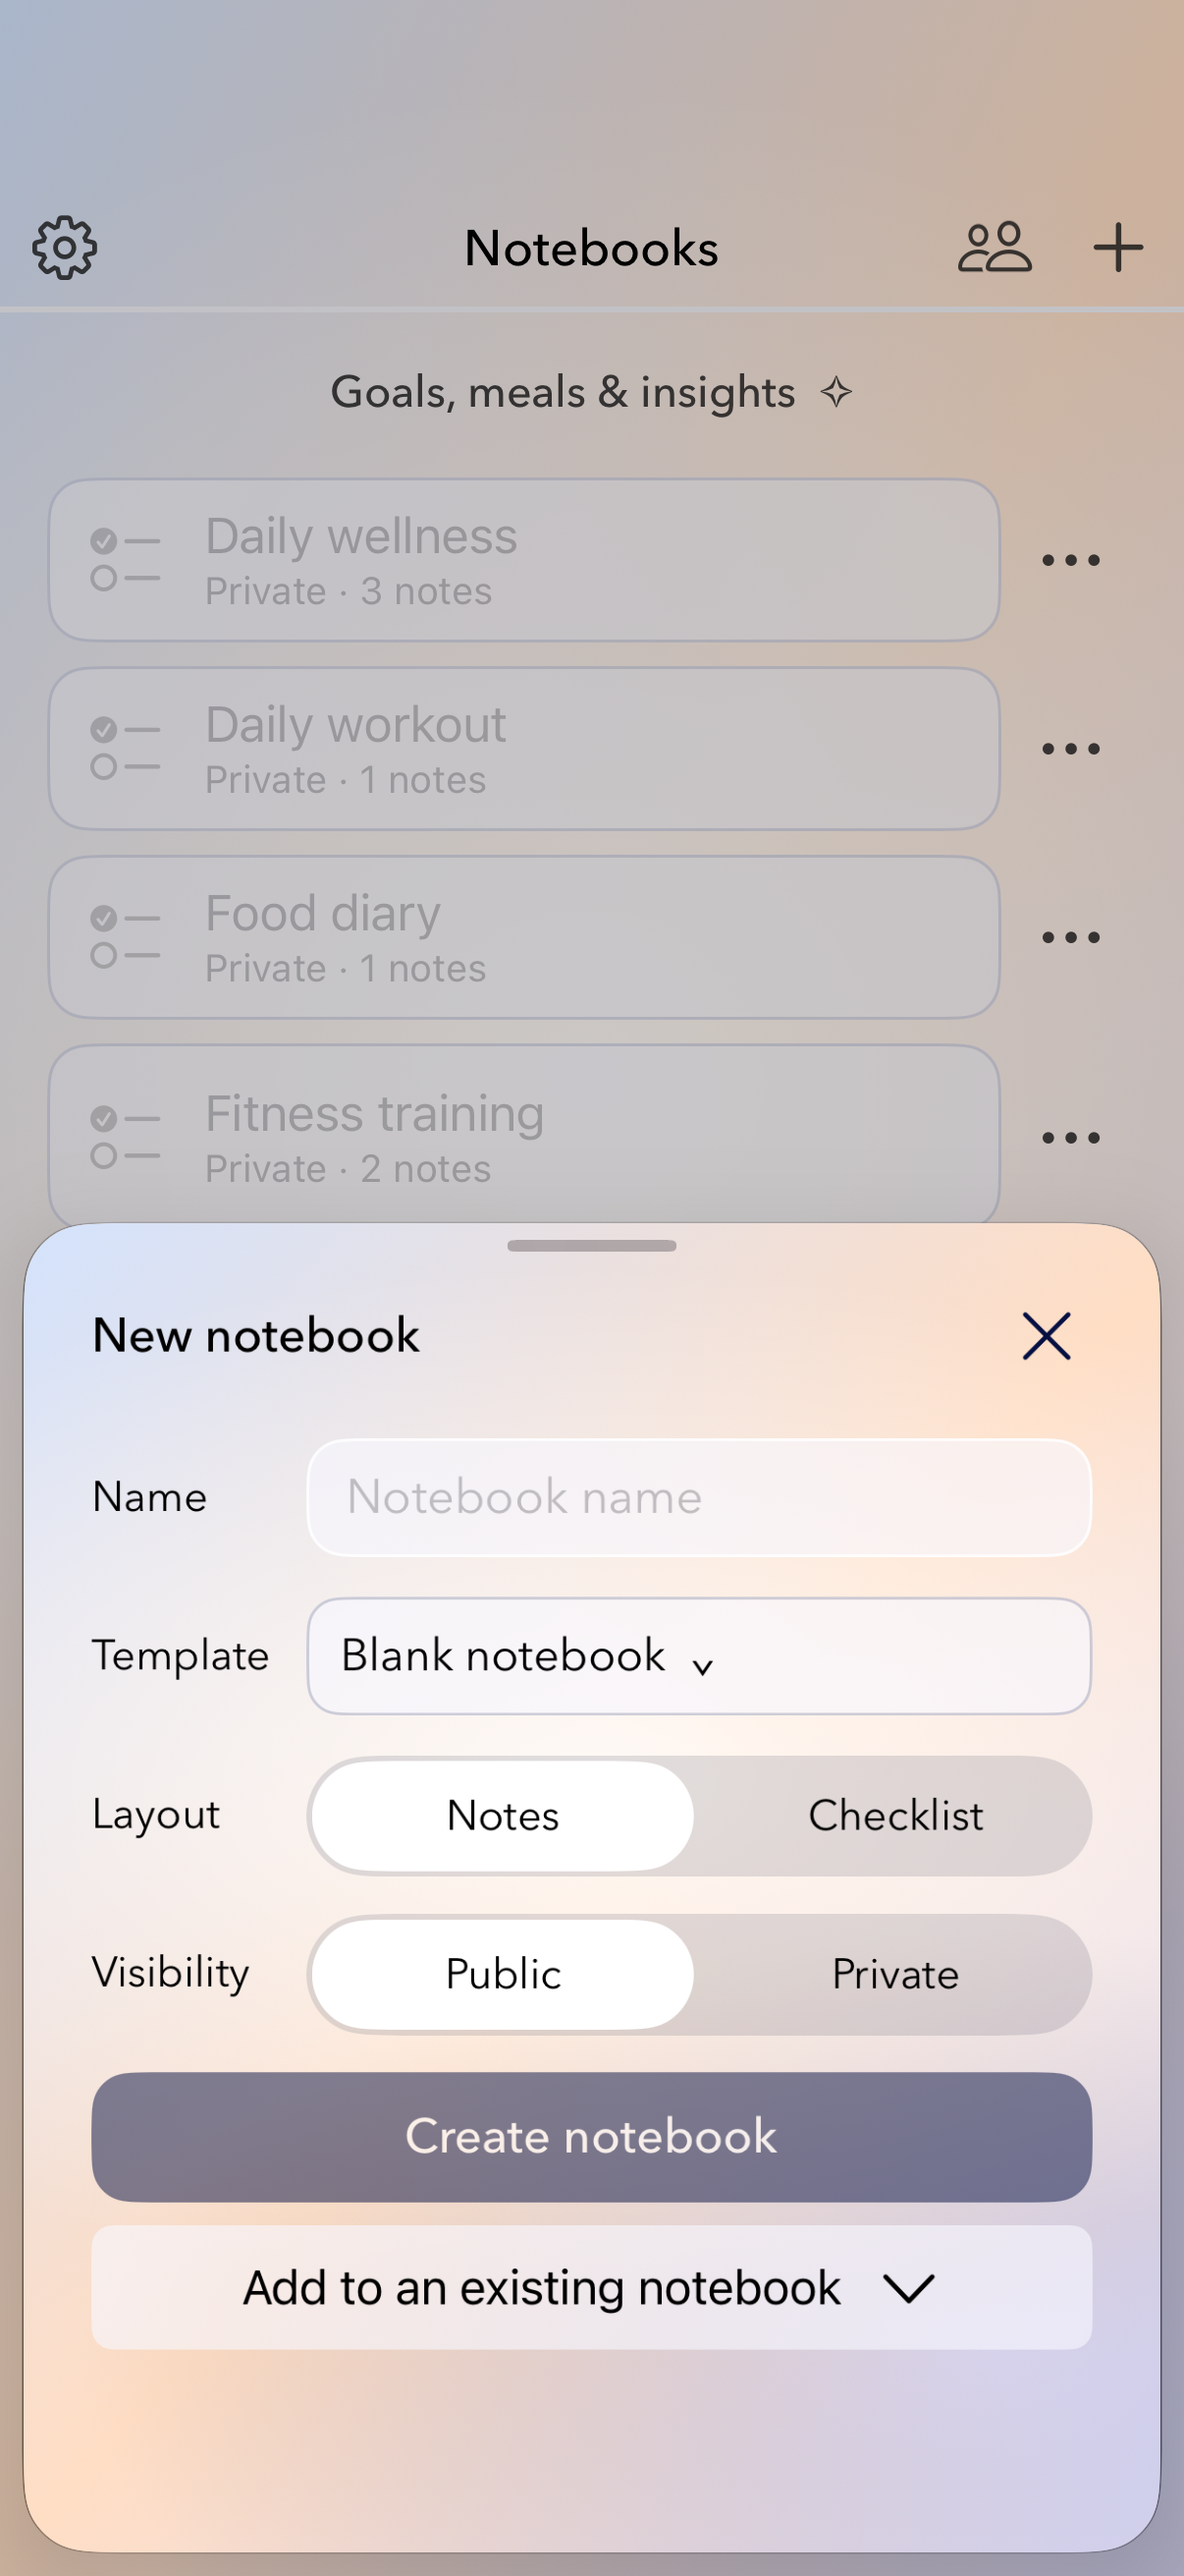
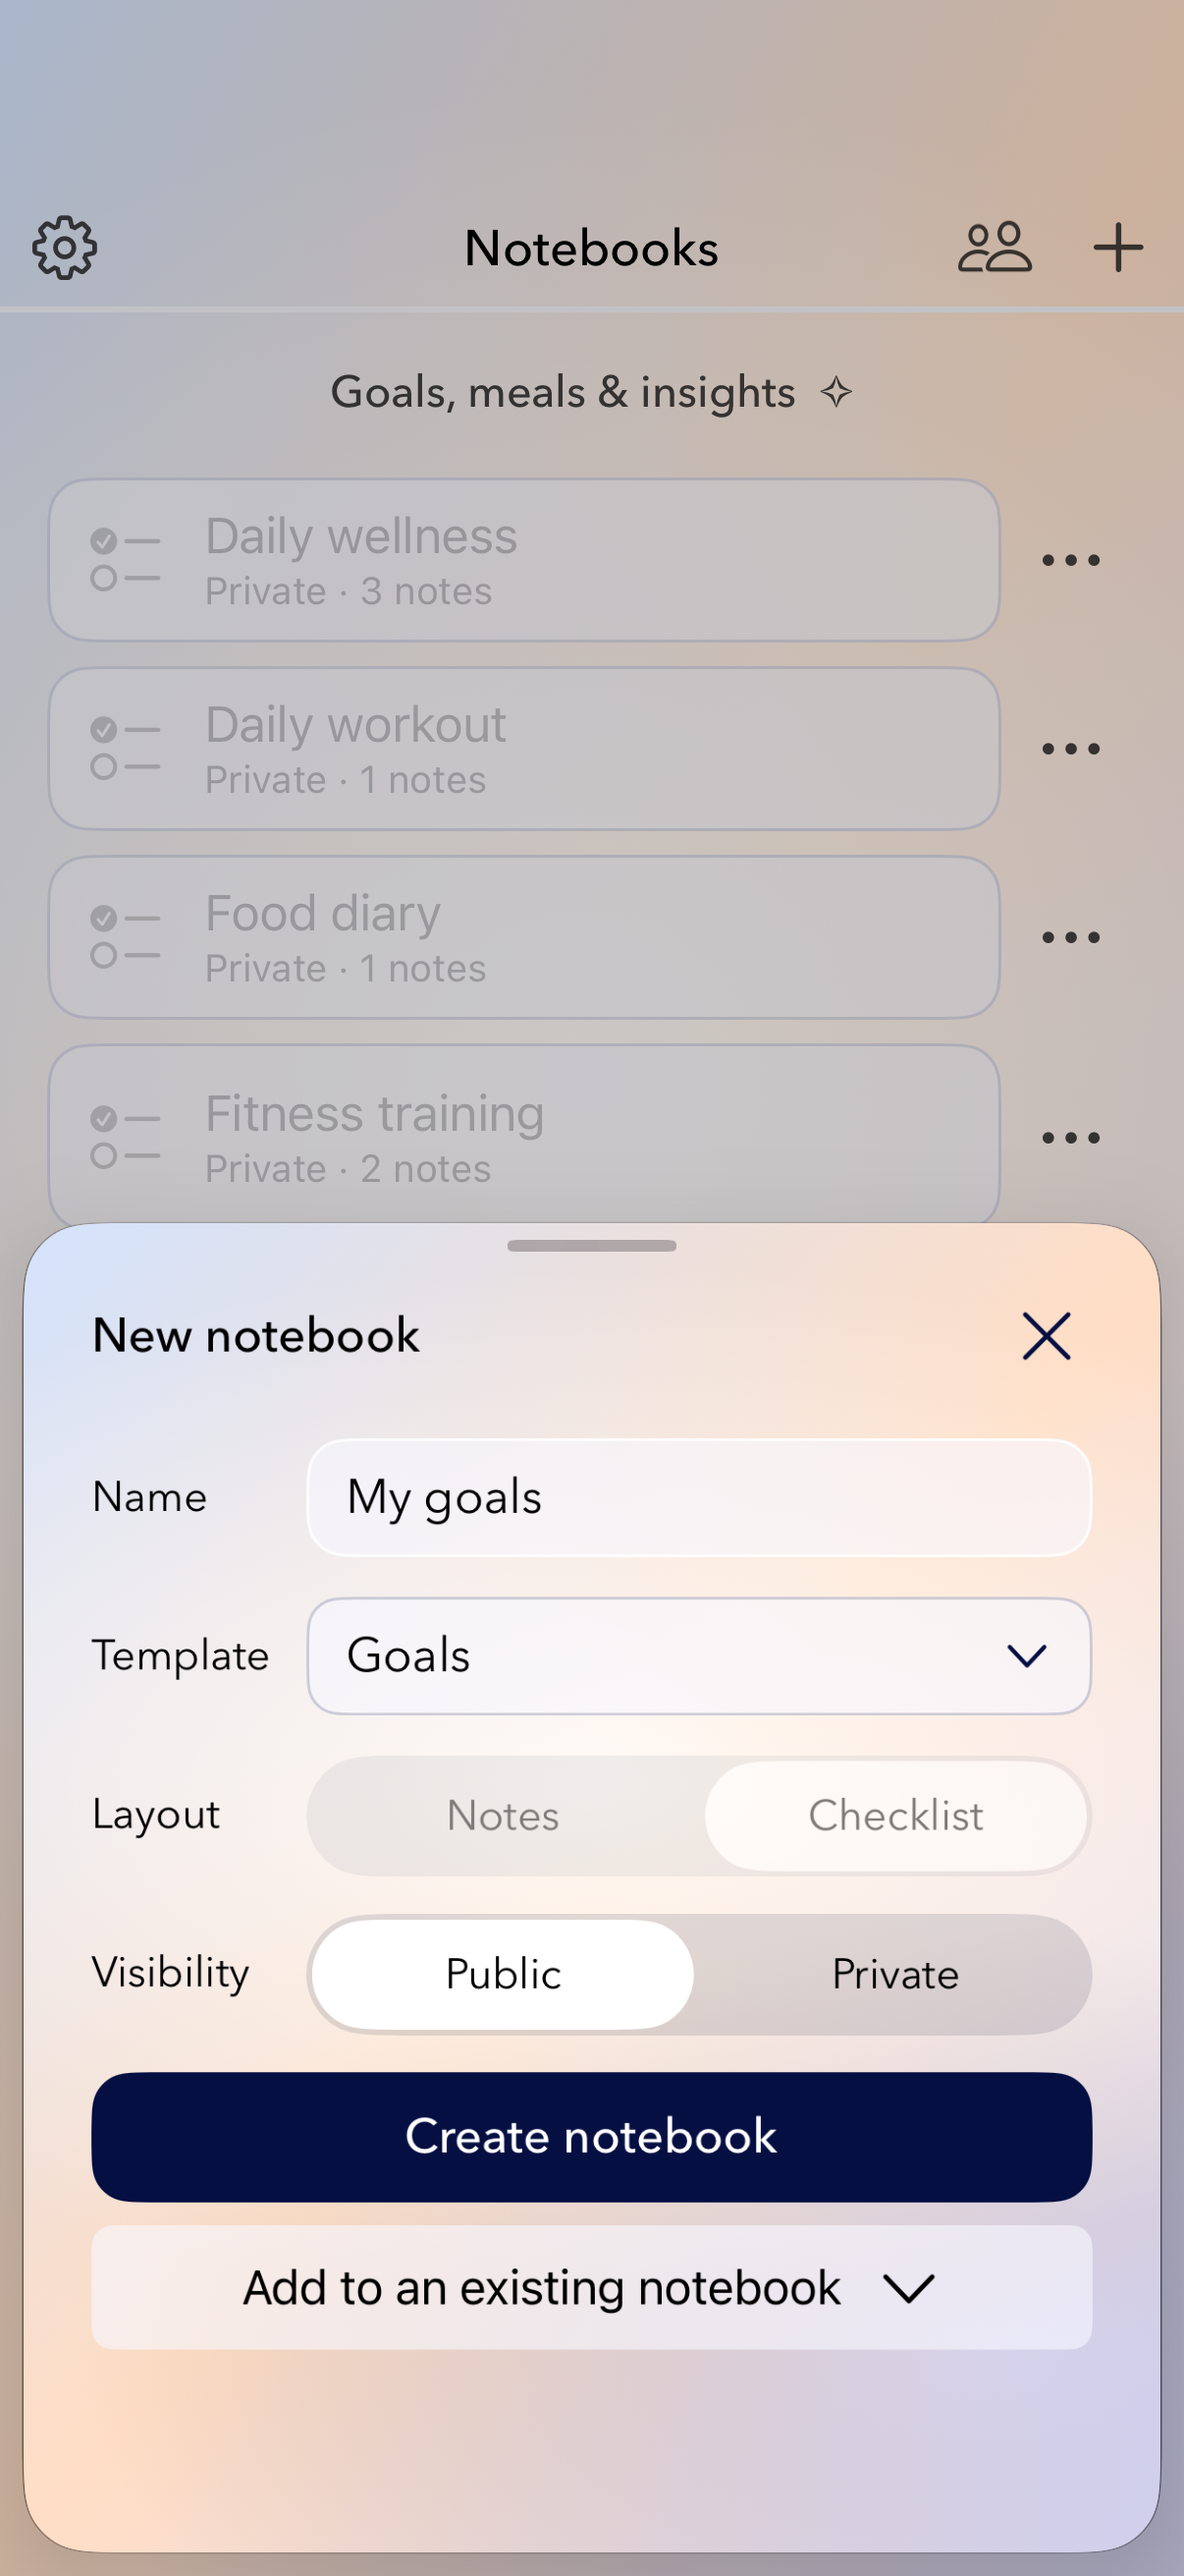
Match template dropdown spacing and selection styling to reference

diff --git a/Notes/Storyboards/UtilityManager/Gradient Layer.swift b/Notes/Storyboards/UtilityManager/Gradient Layer.swift
@@ -456,7 +456,7 @@ enum ApplazAuthLayout {
     }
 }
 
-final class NewNotebookViewController: UIViewController, UIPopoverPresentationControllerDelegate {
+final class NewNotebookViewController: UIViewController {
     var onCreate: ((String, Bool) -> Void)?
     var onFinish: (() -> Void)?
     var existingNotebooks: [Note] = []
@@ -464,6 +464,7 @@ final class NewNotebookViewController: UIViewController, UIPopoverPresentationCo
     var onSelectPrivateNotebook: ((String) -> Void)?
     private var selectedTemplate = WellnessTemplate.blank
     private let templateButton = UIButton(type: .system)
+    private var templateMenuOverlay: UIControl?
     private let templateDescription = UILabel()
     private let checklistControl = UISegmentedControl(items: ["Notes", "Checklist"])
     let nameField = UITextField()
@@ -548,13 +549,24 @@ final class NewNotebookViewController: UIViewController, UIPopoverPresentationCo
         let actions = UIStackView(arrangedSubviews: [createButton])
         templateButton.accessibilityIdentifier = "NotebookTemplate"
         templateButton.contentHorizontalAlignment = .leading
-        templateButton.titleLabel?.font = ApplazAppearance.font(16)
+        templateButton.titleLabel?.font = ApplazAppearance.font(17)
         templateButton.tintColor = ApplazAppearance.ink
         templateButton.backgroundColor = ApplazAppearance.surface
         templateButton.layer.cornerRadius = 12
         templateButton.layer.borderWidth = 1
         templateButton.layer.borderColor = ApplazAppearance.accent.withAlphaComponent(0.18).cgColor
-        templateButton.contentEdgeInsets = UIEdgeInsets(top: 0, left: 12, bottom: 0, right: 12)
+        templateButton.contentEdgeInsets = UIEdgeInsets(top: 0, left: 14, bottom: 0, right: 42)
+        let templateChevron = UIImageView(image: UIImage(systemName: "chevron.down", withConfiguration: UIImage.SymbolConfiguration(pointSize: 14, weight: .regular)))
+        templateChevron.tintColor = ApplazAppearance.accent
+        templateChevron.contentMode = .scaleAspectFit
+        templateChevron.translatesAutoresizingMaskIntoConstraints = false
+        templateButton.addSubview(templateChevron)
+        NSLayoutConstraint.activate([
+            templateChevron.trailingAnchor.constraint(equalTo: templateButton.trailingAnchor, constant: -14),
+            templateChevron.centerYAnchor.constraint(equalTo: templateButton.centerYAnchor),
+            templateChevron.widthAnchor.constraint(equalToConstant: 18),
+            templateChevron.heightAnchor.constraint(equalToConstant: 18)
+        ])
         templateButton.addTarget(self, action: #selector(showTemplateChoices), for: .touchUpInside)
         refreshTemplateMenu()
         checklistControl.selectedSegmentIndex = 0
@@ -640,55 +652,134 @@ final class NewNotebookViewController: UIViewController, UIPopoverPresentationCo
         }
     }
 
+    private func templateTitle(_ template: WellnessTemplate) -> String {
+        switch template {
+        case .blank: return "Blank notebook"
+        case .goals: return "Goals"
+        case .wellness: return "Routine checklist"
+        case .workout: return "Workout checklist"
+        case .food: return "Food diary"
+        case .training: return "Fitness training"
+        }
+    }
     private func refreshTemplateMenu() {
-        templateButton.setTitle(selectedTemplate.rawValue + "  ⌄", for: .normal)
+        templateButton.setTitle(templateTitle(selectedTemplate), for: .normal)
         templateButton.accessibilityHint = selectedTemplate.summary
     }
-    @objc private func showTemplateChoices() {
-        let choices = UIViewController()
-        choices.modalPresentationStyle = .popover
-        choices.view.backgroundColor = UIColor(red: 0.98, green: 0.97, blue: 1, alpha: 1)
-        let rows = UIStackView()
-        rows.axis = .vertical
-        rows.translatesAutoresizingMaskIntoConstraints = false
-        choices.view.addSubview(rows)
-        for template in WellnessTemplate.allCases {
-            let button = UIButton(type: .system)
-            var config = UIButton.Configuration.plain()
-            config.title = template.rawValue
-            config.baseForegroundColor = ApplazAppearance.ink
-            config.contentInsets = NSDirectionalEdgeInsets(top: 0, leading: 16, bottom: 0, trailing: 14)
-            if template == selectedTemplate {
-                config.image = UIImage(systemName: "checkmark")
-                config.imagePlacement = .trailing
-                config.imagePadding = 12
-                button.backgroundColor = UIColor(red: 0.88, green: 0.85, blue: 0.95, alpha: 1)
-            }
-            button.configuration = config
-            button.contentHorizontalAlignment = .leading
-            button.accessibilityLabel = template.rawValue
-            button.heightAnchor.constraint(equalToConstant: 42).isActive = true
-            button.addAction(UIAction { [weak self, weak choices] _ in
-                choices?.dismiss(animated: true)
-                self?.selectTemplate(template)
-            }, for: .touchUpInside)
-            rows.addArrangedSubview(button)
-        }
-        NSLayoutConstraint.activate([rows.topAnchor.constraint(equalTo: choices.view.topAnchor), rows.bottomAnchor.constraint(equalTo: choices.view.bottomAnchor), rows.leadingAnchor.constraint(equalTo: choices.view.leadingAnchor), rows.trailingAnchor.constraint(equalTo: choices.view.trailingAnchor)])
-        choices.preferredContentSize = CGSize(width: 280, height: CGFloat(WellnessTemplate.allCases.count) * 42)
-        if let popover = choices.popoverPresentationController {
-            popover.sourceView = templateButton
-            popover.sourceRect = templateButton.bounds
-            popover.permittedArrowDirections = [.up, .down]
-            popover.delegate = self
-        }
-        present(choices, animated: true)
+    @objc private func hideTemplateChoices() {
+        templateMenuOverlay?.removeFromSuperview()
+        templateMenuOverlay = nil
     }
-    func adaptivePresentationStyle(for controller: UIPresentationController) -> UIModalPresentationStyle { .none }
+    @objc private func showTemplateChoices() {
+        if templateMenuOverlay != nil { hideTemplateChoices(); return }
+        guard let window = view.window else { return }
+        if nameField.isFirstResponder {
+            nameField.resignFirstResponder()
+            DispatchQueue.main.asyncAfter(deadline: .now() + 0.35) { [weak self] in self?.showTemplateChoices() }
+            return
+        }
+        view.layoutIfNeeded()
+        let anchor = templateButton.convert(templateButton.bounds, to: window)
+        let width = min(300, max(260, anchor.width), window.bounds.width - 32)
+        let rowHeight: CGFloat = 48
+        let height = rowHeight * CGFloat(WellnessTemplate.allCases.count)
+        let above = anchor.minY - height - 10 >= window.safeAreaInsets.top + 12
+        let x = min(max(16, anchor.maxX - width), window.bounds.width - width - 16)
+        let y = above ? anchor.minY - height - 10 : min(anchor.maxY + 10, window.bounds.height - window.safeAreaInsets.bottom - height - 12)
+        let overlay = UIControl(frame: window.bounds)
+        overlay.autoresizingMask = [.flexibleWidth, .flexibleHeight]
+        overlay.accessibilityIdentifier = "NotebookTemplateMenu"
+        overlay.accessibilityViewIsModal = true
+        overlay.addTarget(self, action: #selector(hideTemplateChoices), for: .touchUpInside)
+        let surface = UIColor(red: 0.99, green: 0.98, blue: 1, alpha: 1)
+        let outline = UIColor(red: 0.62, green: 0.58, blue: 0.80, alpha: 0.48)
+        let arrowX = min(max(anchor.midX, x + 22), x + width - 22)
+        let baseY = above ? y + height : y
+        let pointer = UIBezierPath()
+        pointer.move(to: CGPoint(x: arrowX - 9, y: baseY))
+        pointer.addLine(to: CGPoint(x: arrowX, y: baseY + (above ? 9 : -9)))
+        pointer.addLine(to: CGPoint(x: arrowX + 9, y: baseY))
+        pointer.close()
+        let arrow = CAShapeLayer()
+        arrow.path = pointer.cgPath
+        arrow.fillColor = surface.cgColor
+        arrow.strokeColor = outline.cgColor
+        arrow.lineWidth = 1
+        overlay.layer.addSublayer(arrow)
+        let shadow = UIView(frame: CGRect(x: x, y: y, width: width, height: height))
+        shadow.layer.shadowColor = ApplazAppearance.accent.cgColor
+        shadow.layer.shadowOpacity = 0.12
+        shadow.layer.shadowRadius = 14
+        shadow.layer.shadowOffset = CGSize(width: 0, height: 7)
+        shadow.layer.shadowPath = UIBezierPath(roundedRect: shadow.bounds, cornerRadius: 14).cgPath
+        overlay.addSubview(shadow)
+        let card = UIView(frame: shadow.bounds)
+        card.backgroundColor = surface
+        card.layer.cornerRadius = 14
+        card.layer.borderColor = outline.cgColor
+        card.layer.borderWidth = 1
+        card.clipsToBounds = true
+        shadow.addSubview(card)
+        var selectedButton: UIButton?
+        for (index, template) in WellnessTemplate.allCases.enumerated() {
+            let selected = template == selectedTemplate
+            let button = UIButton(type: .custom)
+            button.frame = CGRect(x: 0, y: CGFloat(index) * rowHeight, width: width, height: rowHeight)
+            button.backgroundColor = selected ? UIColor(red: 0.89, green: 0.86, blue: 0.95, alpha: 1) : .clear
+            button.accessibilityIdentifier = "NotebookTemplateChoice." + template.id
+            button.accessibilityLabel = templateTitle(template)
+            button.accessibilityHint = template.summary
+            button.isAccessibilityElement = true
+            button.isSelected = selected
+            if selected { button.accessibilityTraits.insert(.selected); selectedButton = button }
+            let label = UILabel(frame: CGRect(x: 18, y: 0, width: width - 66, height: rowHeight))
+            label.text = templateTitle(template)
+            label.textColor = ApplazAppearance.ink
+            label.font = ApplazAppearance.font(17, weight: selected ? .medium : .regular)
+            label.lineBreakMode = .byTruncatingTail
+            label.isAccessibilityElement = false
+            button.addSubview(label)
+            if selected {
+                let checkmark = UIImageView(image: UIImage(systemName: "checkmark", withConfiguration: UIImage.SymbolConfiguration(pointSize: 17, weight: .medium)))
+                checkmark.frame = CGRect(x: width - 38, y: 14, width: 20, height: 20)
+                checkmark.contentMode = .scaleAspectFit
+                checkmark.tintColor = ApplazAppearance.accent
+                button.addSubview(checkmark)
+            }
+            if index < WellnessTemplate.allCases.count - 1 {
+                let divider = UIView(frame: CGRect(x: 0, y: rowHeight - 1, width: width, height: 1))
+                divider.backgroundColor = ApplazAppearance.accent.withAlphaComponent(0.08)
+                divider.isUserInteractionEnabled = false
+                button.addSubview(divider)
+            }
+            button.addAction(UIAction { [weak self] _ in
+                self?.hideTemplateChoices()
+                self?.selectTemplate(template)
+                UIAccessibility.post(notification: .layoutChanged, argument: self?.templateButton)
+            }, for: .touchUpInside)
+            card.addSubview(button)
+        }
+        templateMenuOverlay = overlay
+        window.addSubview(overlay)
+        UIAccessibility.post(notification: .screenChanged, argument: selectedButton)
+    }
+    override func viewWillDisappear(_ animated: Bool) {
+        hideTemplateChoices()
+        super.viewWillDisappear(animated)
+    }
+    override func viewWillTransition(to size: CGSize, with coordinator: UIViewControllerTransitionCoordinator) {
+        hideTemplateChoices()
+        super.viewWillTransition(to: size, with: coordinator)
+    }
+    override func accessibilityPerformEscape() -> Bool {
+        guard templateMenuOverlay != nil else { return false }
+        hideTemplateChoices()
+        UIAccessibility.post(notification: .layoutChanged, argument: templateButton)
+        return true
+    }
     func selectTemplate(_ template: WellnessTemplate) {
         selectedTemplate = template
         checklistControl.isEnabled = template == .blank
-        templateButton.setTitle(template.rawValue + "  ⌄", for: .normal)
         templateDescription.text = template.summary
         templateDescription.accessibilityIdentifier = "TemplateDescription"
         checklistControl.selectedSegmentIndex = template == .blank ? 0 : 1

diff --git a/docs/Applaz-Plus-activation.md b/docs/Applaz-Plus-activation.md
@@ -85,3 +85,12 @@ Refreshed App Store artwork is in AppStoreAssets/Health-Refresh. It uses native 
 The new-notebook form uses labeled Name, Template, Layout and Visibility rows, one full-width Create action, and the existing-notebook dropdown. Template choices use a compact anchored list with a selected checkmark. Both creation entry points share the same UIKit form, so template and privacy behavior remain consistent. Descriptions are available as template accessibility hints rather than taking space above the fields.
 
 Checklist editors retain their notebook, editable title and Text/Checklist selector, with a contextual template badge. Inline AI charts are shorter on phones and source names can be expanded. These are presentation changes; existing notebook data, AI scope, purchase gating and server credit policy are preserved. Offline preview conversations are labeled sample data and do not demonstrate live OpenAI activation.
+
+
+## Template dropdown refinement — build 1.0.14 (8)
+
+The template dropdown now follows the reference's flat rows, subtle separators, lilac selection band and trailing checkmark. Rows are 48 points high with 17-point text and separate reserved space for the checkmark. The field's down-chevron is pinned to its trailing edge. Short display labels (Goals, Routine checklist, Workout checklist) do not rename stored notebook titles or change template identifiers. Public remains the default; explicit privacy choices and existing creation handlers are retained.
+
+Manifestation screens shown in the chat are concept mockups only. No manifestation tools or generated concept images are included in the app.
+
+The build and focused simulator UI check passed. Verification covered opening after keyboard entry, row spacing, selected-state indication, outside dismissal, privacy retention across template changes, and notebook creation. Fresh native previews are in DesignPreviews/dropdown-refinement.

diff --git a/README.md b/README.md
@@ -1,6 +1,6 @@
 # Applaz — Goals Delivered
 
-Native iOS app, version 1.0.14 (7). Current health and fitness design snapshot for `constancebc/applazhealth`.
+Native iOS app, version 1.0.14 (8). Current health and fitness design snapshot for `constancebc/applazhealth`.
 
 ## Build locally
 
